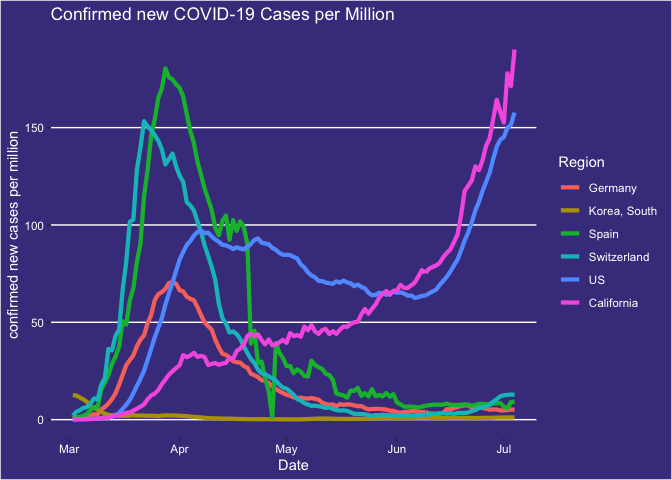
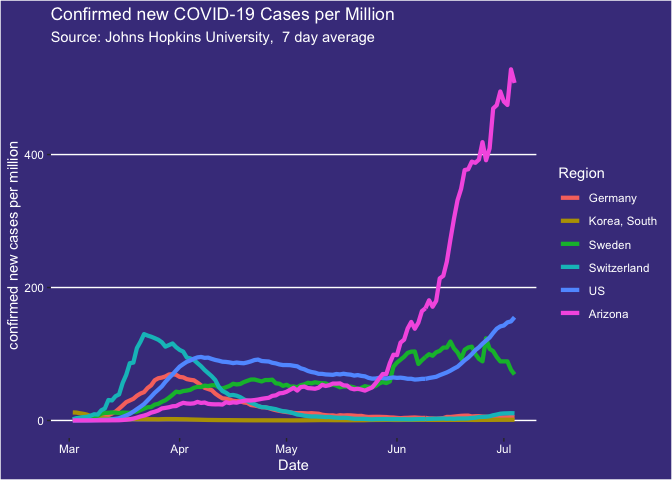
add U.S. State information

Changed region(s): [[0.0, 0.0938, 1.0, 0.9062], [0.0625, 0.0625, 0.5625, 0.0938]]

diff --git a/README.md b/README.md
@@ -14,9 +14,15 @@ Projections based on [SIR
 models](https://www.maa.org/press/periodicals/loci/joma/the-sir-model-for-spread-of-disease-the-differential-equation-model)
 from [HealthData](https://covid19.healthdata.org/projections).
 
-## Confirmed COVID-19 Cases
+# Confirmed COVID-19 Cases
+
+## World
 
 Regions with more than 5,000 confirmed cases increased rapidly from a
 few to many.
 
 ![](README_files/figure-gfm/unnamed-chunk-4-1.png)<!-- -->
+
+## United States
+
+![](README_files/figure-gfm/unnamed-chunk-5-1.png)<!-- -->
